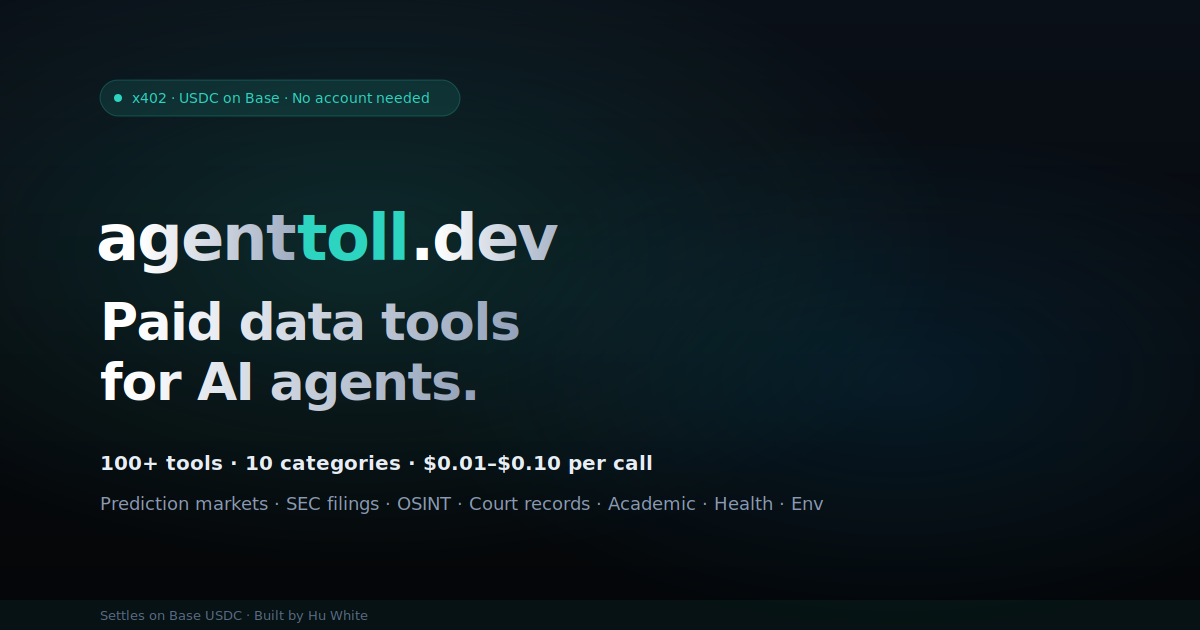
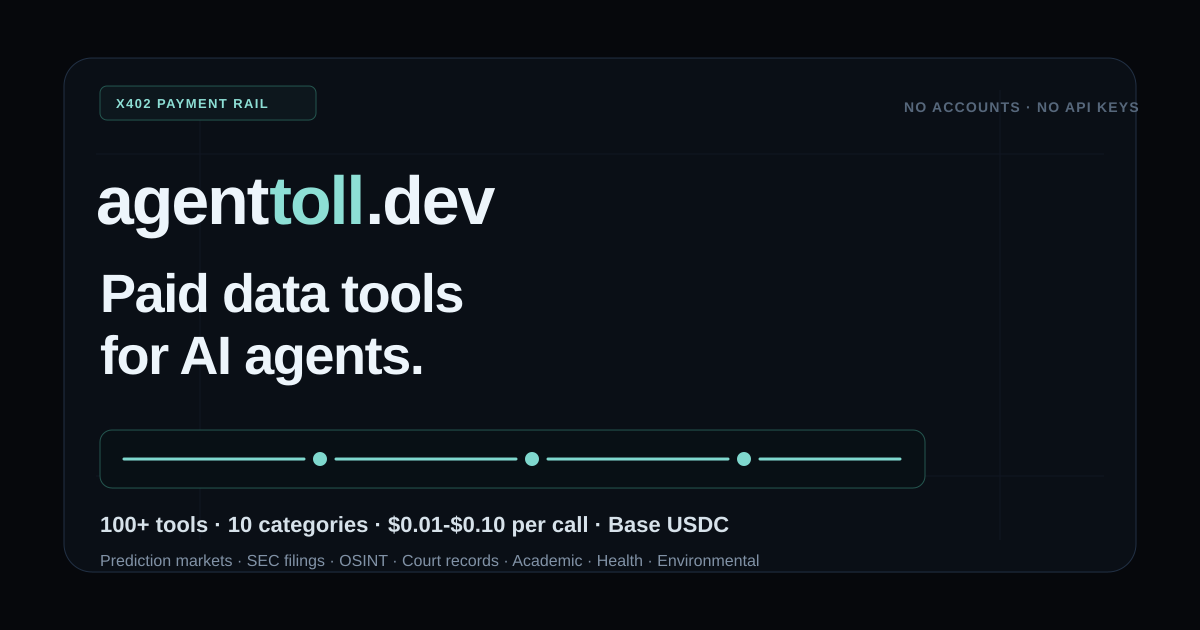
Polish landing visuals and OG cards

diff --git a/src/index.ts b/src/index.ts
@@ -3392,6 +3392,12 @@ const SHARED_CSS = `:root {
   --accent-2: #0ea5e9;
   --accent-dim: rgba(45, 212, 191, 0.12);
   --price: #4ade80;
+  --ease-out: cubic-bezier(0.23, 1, 0.32, 1);
+  --ease-in-out: cubic-bezier(0.77, 0, 0.175, 1);
+  --duration-fast: 160ms;
+  --duration-ui: 220ms;
+  --focus-ring: 0 0 0 3px rgba(45, 212, 191, 0.32);
+  --rail-glow: 0 0 36px rgba(45, 212, 191, 0.16);
 }
 * { margin: 0; padding: 0; box-sizing: border-box; }
 html { scroll-behavior: smooth; }
@@ -3437,6 +3443,10 @@ nav .logo {
   font-size: 16px;
   color: var(--text);
   letter-spacing: -0.02em;
+  text-decoration: none;
+  padding: 4px 6px;
+  border-radius: 8px;
+  transition: color var(--duration-fast) ease, box-shadow var(--duration-fast) ease;
 }
 nav .logo span { color: var(--accent); }
 nav .links { display: flex; gap: 28px; align-items: center; }
@@ -3445,9 +3455,27 @@ nav .links a {
   text-decoration: none;
   font-size: 14px;
   font-weight: 500;
-  transition: color 0.2s;
+  border-radius: 8px;
+  transition: color var(--duration-fast) ease, background-color var(--duration-fast) ease, box-shadow var(--duration-fast) ease;
 }
 nav .links a:hover { color: var(--text); }
+nav .logo:focus,
+nav .links a:focus,
+.btn:focus,
+.cat-card:focus,
+.tool-card:focus,
+.search-bar:focus,
+.nav-toggle:focus,
+nav .logo:focus-visible,
+nav .links a:focus-visible,
+.btn:focus-visible,
+.cat-card:focus-visible,
+.tool-card:focus-visible,
+.search-bar:focus-visible,
+.nav-toggle:focus-visible {
+  outline: none;
+  box-shadow: var(--focus-ring);
+}
 nav .links .cta {
   background: var(--accent-dim);
   border: 1px solid rgba(45, 212, 191, 0.3);
@@ -3508,10 +3536,8 @@ main {
   padding-bottom: 0.08em;
   padding-right: 0.1em;
   max-width: 900px;
-  background: linear-gradient(180deg, #ffffff 0%, #8b9bb4 100%);
-  -webkit-background-clip: text;
-  -webkit-text-fill-color: transparent;
-  background-clip: text;
+  color: var(--text);
+  text-shadow: 0 0 42px rgba(45, 212, 191, 0.10), 0 1px 0 rgba(255,255,255,0.12);
 }
 .hero p.sub {
   font-size: clamp(16px, 2vw, 20px);
@@ -3535,7 +3561,7 @@ main {
   font-weight: 600;
   font-size: 15px;
   text-decoration: none;
-  transition: all 0.2s;
+  transition: transform var(--duration-fast) var(--ease-out), box-shadow var(--duration-ui) var(--ease-out), border-color var(--duration-fast) ease, background-color var(--duration-fast) ease;
   backdrop-filter: blur(10px);
 }
 .btn-primary {
@@ -3544,6 +3570,7 @@ main {
   box-shadow: 0 0 30px rgba(45, 212, 191, 0.3);
 }
 .btn-primary:hover { box-shadow: 0 0 50px rgba(45, 212, 191, 0.5); transform: translateY(-1px); }
+.btn:active { transform: scale(0.97); }
 .btn-ghost {
   background: var(--bg-glass);
   border: 1px solid var(--border);
@@ -3553,13 +3580,37 @@ main {
 /* Stats bar */
 .stats {
   display: flex;
-  gap: 48px;
+  gap: 0;
   justify-content: center;
   margin-top: 64px;
   flex-wrap: wrap;
+  max-width: 760px;
+  border: 1px solid rgba(45, 212, 191, 0.22);
+  border-radius: 18px;
+  background: linear-gradient(180deg, rgba(6, 8, 12, 0.74), rgba(16, 22, 34, 0.58));
+  box-shadow: var(--rail-glow), inset 0 1px 0 rgba(255,255,255,0.06);
+  overflow: hidden;
+  backdrop-filter: blur(14px);
+}
+.stats::before {
+  content: 'PAYMENT RAIL';
+  width: 100%;
+  padding: 9px 14px 7px;
+  border-bottom: 1px solid rgba(45, 212, 191, 0.16);
+  font-family: 'JetBrains Mono', monospace;
+  font-size: 11px;
+  letter-spacing: 0.14em;
+  color: var(--accent);
+  text-align: left;
 }
 .stat {
   text-align: center;
+  min-width: 150px;
+  padding: 18px 22px 20px;
+  border-right: 1px solid rgba(56, 78, 112, 0.22);
+}
+.stat:last-child {
+  border-right: 0;
 }
 .stat .num {
   font-family: 'JetBrains Mono', monospace;
@@ -3608,7 +3659,7 @@ main {
   padding: 24px;
   text-decoration: none;
   color: inherit;
-  transition: all 0.2s;
+  transition: transform var(--duration-ui) var(--ease-out), border-color var(--duration-fast) ease, box-shadow var(--duration-ui) var(--ease-out), background-color var(--duration-fast) ease;
   backdrop-filter: blur(12px);
 }
 .cat-card:hover {
@@ -3786,7 +3837,7 @@ footer code {
   padding: 24px;
   text-decoration: none;
   color: inherit;
-  transition: all 0.2s;
+  transition: transform var(--duration-ui) var(--ease-out), border-color var(--duration-fast) ease, box-shadow var(--duration-ui) var(--ease-out), background-color var(--duration-fast) ease;
   backdrop-filter: blur(12px);
   display: flex;
   flex-direction: column;
@@ -3839,10 +3890,8 @@ footer code {
   font-weight: 700;
   letter-spacing: -0.03em;
   margin-bottom: 8px;
-  background: linear-gradient(180deg, #ffffff 0%, #8b9bb4 100%);
-  -webkit-background-clip: text;
-  -webkit-text-fill-color: transparent;
-  background-clip: text;
+  color: var(--text);
+  text-shadow: 0 0 30px rgba(45, 212, 191, 0.10);
 }
 .detail-page .tool-price-large {
   font-family: 'JetBrains Mono', monospace;
@@ -3895,7 +3944,7 @@ footer code {
   margin-bottom: 32px;
   backdrop-filter: blur(12px);
   outline: none;
-  transition: border-color 0.2s;
+  transition: border-color var(--duration-fast) ease, box-shadow var(--duration-fast) ease;
 }
 .search-bar:focus {
   border-color: var(--accent);
@@ -3937,9 +3986,20 @@ footer code {
 }
 
 @media (prefers-reduced-motion: reduce) {
+  html { scroll-behavior: auto; }
   #shader-bg { display: none; }
+  .hero .badge,
+  .hero h1,
+  .hero .sub,
+  .hero .actions,
+  .hero .stats,
+  .hero .badge::before {
+    animation: none;
+  }
   .tool-card:hover { transform: none; }
+  .cat-card:hover { transform: none; }
   .btn-primary:hover { transform: none; }
+  .btn:active { transform: none; }
 }
 
 `;

diff --git a/docs/blog/x402-protocol-explained.md b/docs/blog/x402-protocol-explained.md
@@ -4,7 +4,7 @@ published: true
 description: "A builder's guide to the x402 payment protocol for AI agents, with real code from a 100-tool production marketplace running on Base USDC micropayments."
 tags: ai, web3, api, tutorial
 date: "2026-07-12T10:00:00Z"
-cover_image: https://agenttoll.dev/og-card.png
+cover_image: https://agenttoll.dev/blog/og-x402-article.png
 canonical_url: https://agenttoll.dev/blog/x402-protocol-explained
 ---
 